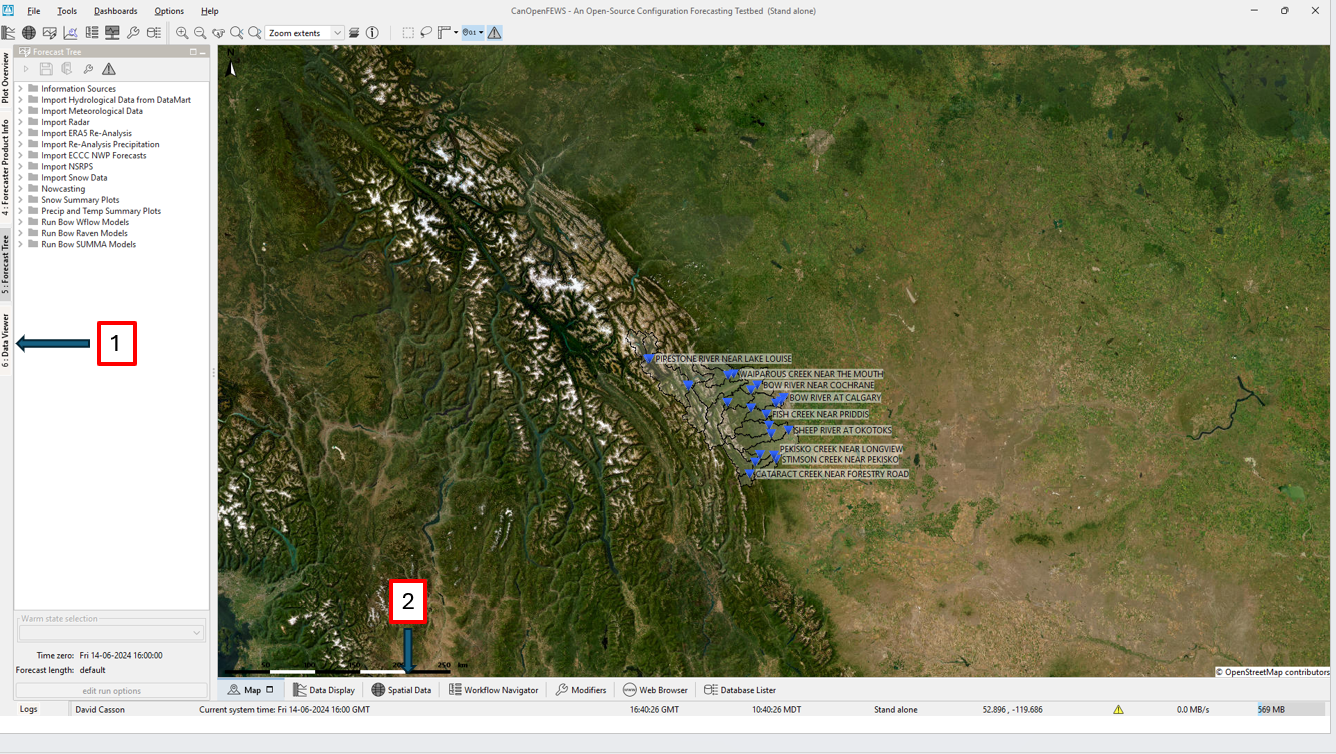
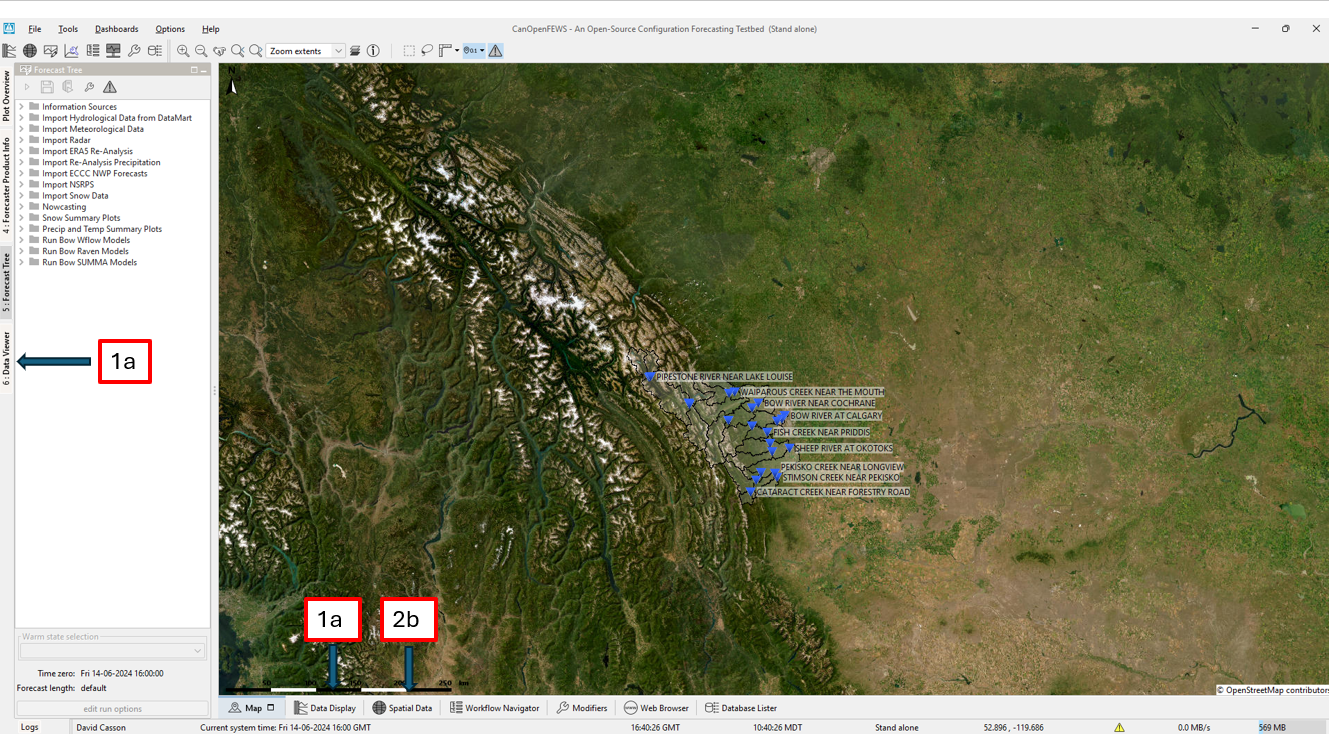
Pre-workshop Update

diff --git a/docs/CWRA2024Workshop/CWRA_2024_Instructions.md b/docs/CWRA2024Workshop/CWRA_2024_Instructions.md
@@ -20,31 +20,27 @@ You can always come back.
      ![alt text](./images/DirectoryStructure.png)
 
 
-
-
-
-
 3. Go to the CanOpenFEWS GitHub [here](https://github.com/Deltares/canopenfews).
 
-  Optional: If you are interested to contribute, and are familiar with GitHub, fork and clone the GitHub repository.
+  Optional: If you are interested to contribute, and are familiar with GitHub, fork and clone the GitHub repository. Instructions for this at at the bottom of this document.
 
-5. Download the configuration as a .zip file, unzip the contents in CWRA_FEWS/CanOpenFEWS/.
+4. Download the configuration as a .zip file, unzip the contents in CWRA_FEWS/CanOpenFEWS/.
 
- ![alt text](./images/GitAccess.png)
+    ![alt text](./images/GitAccess.png)
 
 5. From the provided link, unzip the patch.jar into the ./CWRA_FEWS/CanOpenFEWS/ directory
 
-6. Unzip the LocalDataStore.zip into the ./CWRA_FEWS/CanOpenFEWS/ directory
+    ![alt text](./images/PatchAndLDS.png)
 
- ![alt text](./images/PatchAndLDS.png)
+6. Unzip the LocalDataStore.zip into the ./CWRA_FEWS/CanOpenFEWS/ directory (as above)
 
 7. Unzip the Delft-FEWS binaries into the ./CWRA_FEWS/bin/ directory
 
 8. Go into the ./CWRA_FEWS/bin/windows/ directory, and open create_shortcuts.exe
 
-  ![alt text](./images/DelftFEWSShortcuts.png)
+    ![alt text](./images/DelftFEWSShortcuts.png)
 
-9. Once the shortcut has been created, open the CanOpenFEWS.lnk from the ./CWRA_FEWS/CanOpenFEWS directory
+9. Once the shortcut has been created, open the CanOpenFEWS.lnk from the ./CWRA_FEWS/CanOpenFEWS/ directory
 
 10. CanOpenFEWS should open to the landing page, you're in! Explore to see the data available.
 
@@ -55,13 +51,14 @@ You can always come back.
 1. What was the most recent discharge at the Bow River at Calgary?
 
   - Find this in the Data Viewer on the Right Side, Hydro and Meto Station Data
+  - You will need to location and parameter, then open the Data Display
 
   ![alt text](./images/Task1and2.png)
 
 2. Is there snow still in the mountains?
 
   - Go to the Spatial Display, and check the SnowCast and SNODAS results.
-
+  - Can you find the melt rate (under SNODAS)?
 
 3. What was the forecasted temperature for Saskatoon?
 
@@ -81,7 +78,7 @@ You can always come back.
 
 
 5. Make the most beautiful Dashboard that you can.
-  - On the top of FEWS, select the Dashboard, and create a new one and give it a unique name.
+  - On the top of FEWS, select the Dashboard (see image above) and create a new one and give it a unique name.
   - Then navigate to the Spatial Display, and add any active display with the Dashboard icon (or Alt+Insert)
   - This is a competition! Try to add charts, focus on a specific theme (i.e. rain or snow), or just make it beautiful!
   - Once complete, submit your user_settings.ini (in ./CWRA_FEWS/CanOpenFEWS) to davecasson@swftresponse.ca.
@@ -103,7 +100,7 @@ You can always come back.
   - Ctrl F12+M, Start TomCat WebServices
   - In a local browser, open http://localhost:8080/
 
-  ![alt text](./images/weboc.png)
+      ![alt text](./images/weboc.png)
 
 
 3. Follow the instructions to contribute to the GitHub!!!
